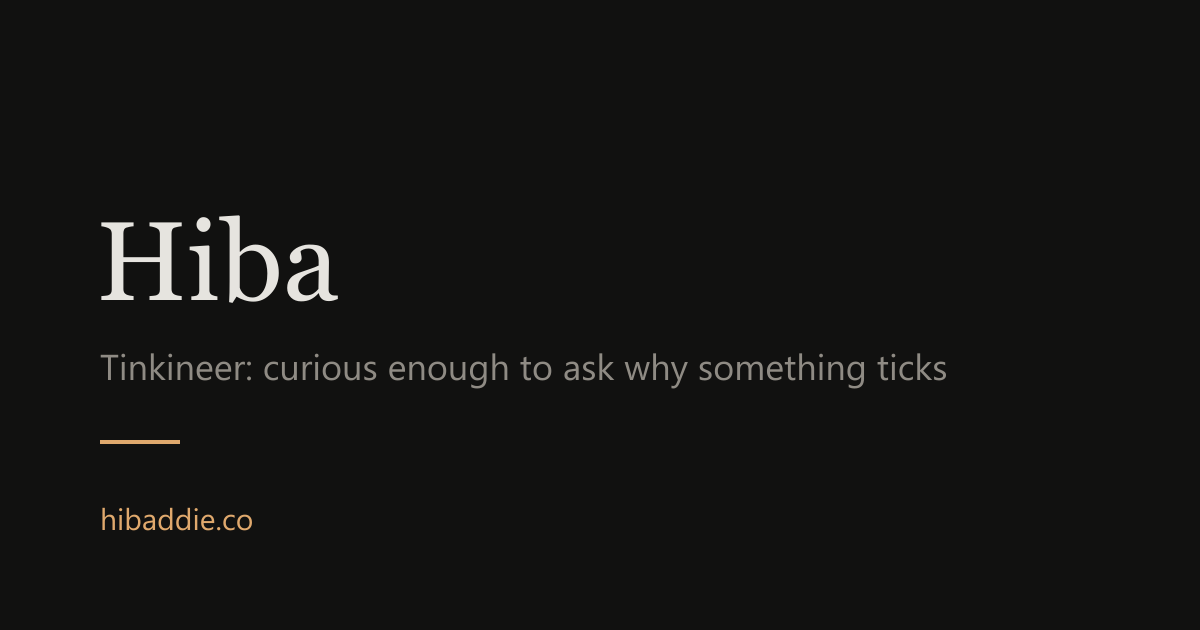
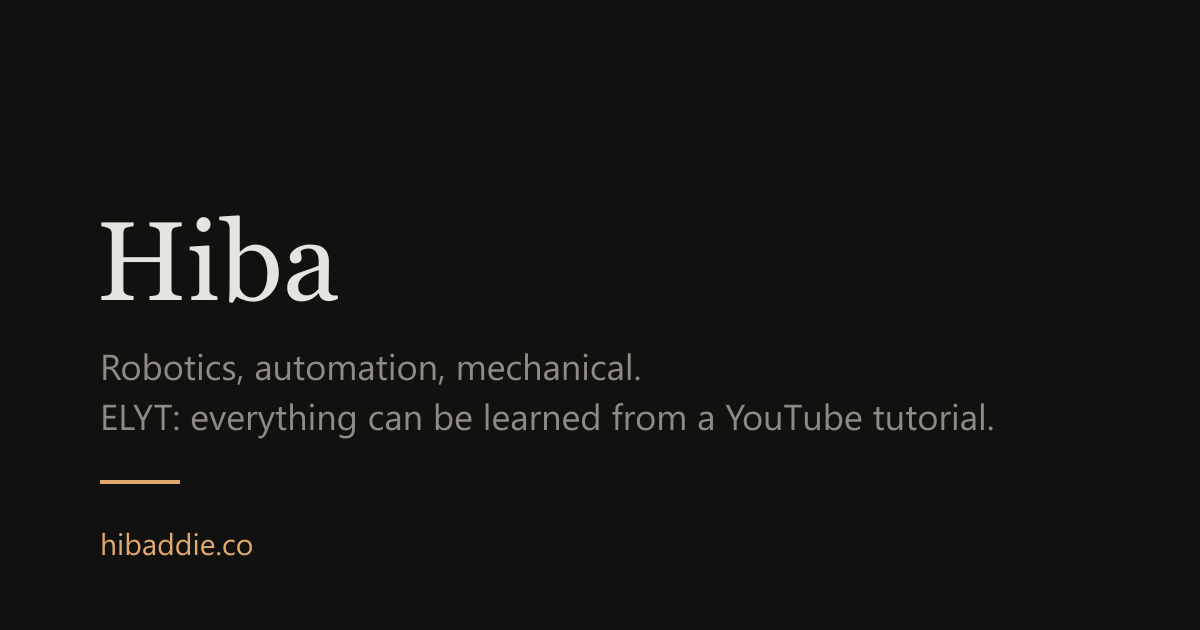
New tagline: robotics, automation, mechanical + ELYT

diff --git a/src/lib/site.ts b/src/lib/site.ts
@@ -1,8 +1,9 @@
 // Site-wide defaults used for SEO tags and the RSS feed.
 export const SITE = {
   name: 'Hiba',
-  // Keep in sync with the tagline in src/content/home/intro.md
-  tagline: 'Tinkineer, curious enough to ask why something ticks',
+  // Short version, used in the browser tab title and search results.
+  // The full tagline lives in src/content/home/intro.md
+  tagline: 'Robotics, automation, mechanical',
   description:
     'Hiba is a mechanical engineering student at JEC Jabalpur who builds robots, lab instruments and bio-signal hardware. Projects, research and experiments in progress.',
   url: 'https://hibaddie.co',

diff --git a/src/content/home/intro.md b/src/content/home/intro.md
@@ -1,6 +1,6 @@
 ---
 name: Hiba
-tagline: "Tinkineer: curious enough to ask why something ticks"
+tagline: "Robotics, automation, mechanical. Firm believer in ELYT: everything can be learned from a YouTube tutorial"
 # Your photo. Swap the file in /public to change it.
 photo: /me.jpg
 links:
